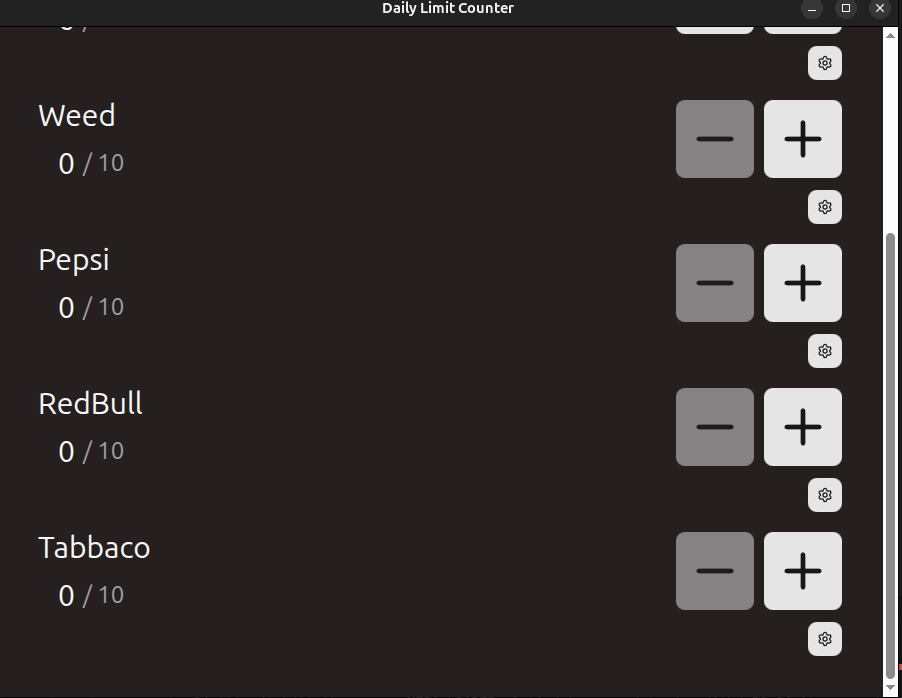
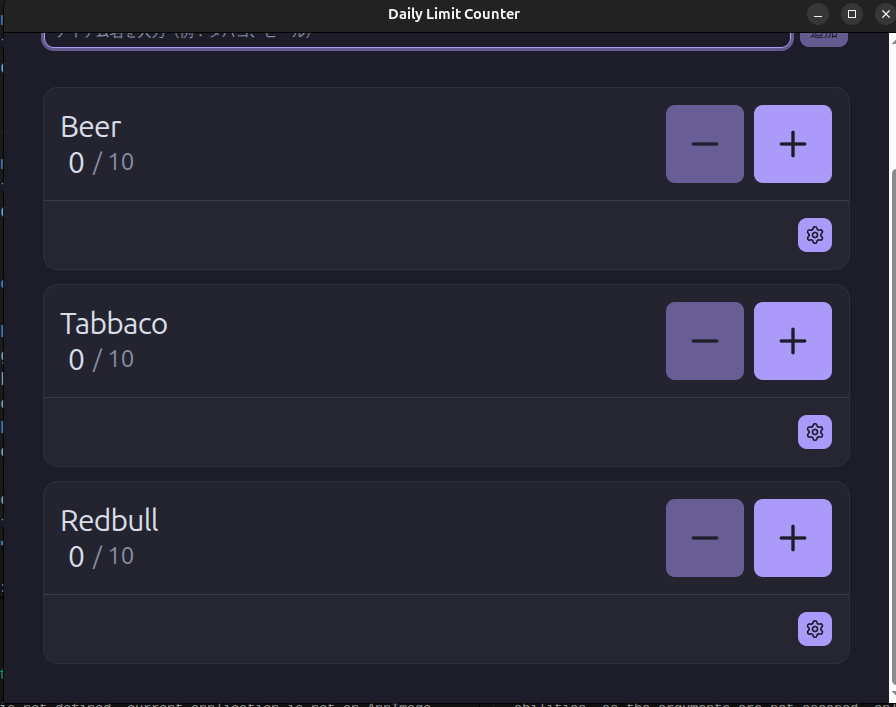
f

diff --git a/README.md b/README.md
@@ -13,6 +13,7 @@
 - **Daily Limit Management**: Track and manage daily consumption limits (e.g., alcohol intake) with a controlled decrement system.
 - **Playful Friction (Fleeing Cursor)**: The confirmation button dynamically flees from your mouse pointer when attempting to decrement a count after exceeding your limit.
 - **Multi-language Support (i18n)**: localized for global accessibility.
+- **history log**
 
 
 ### Install
@@ -22,5 +23,5 @@ Linux / Windows
 
 [![Get it from the Snap Store](https://snapcraft.io/en/dark/install.svg)](https://snapcraft.io/limit-counter)
 
-- deb , zip
+- deb,zip
   - [Releases](https://github.com/Mr-Pontaman/electron-limit-counter/releases) Page

diff --git a/RELEASE.md b/RELEASE.md
@@ -9,3 +9,12 @@ Electron-vite 配布方法
 
 snapを分ける理由
 - Github Actionsでsnap-store関係のエラーが出てわからず
+
+snapのupload
+
+1. pnpm run build:linux
+2. upload
+```
+snapcraft upload dist/test-counter-app-*.snap --release=stable
+
+```
